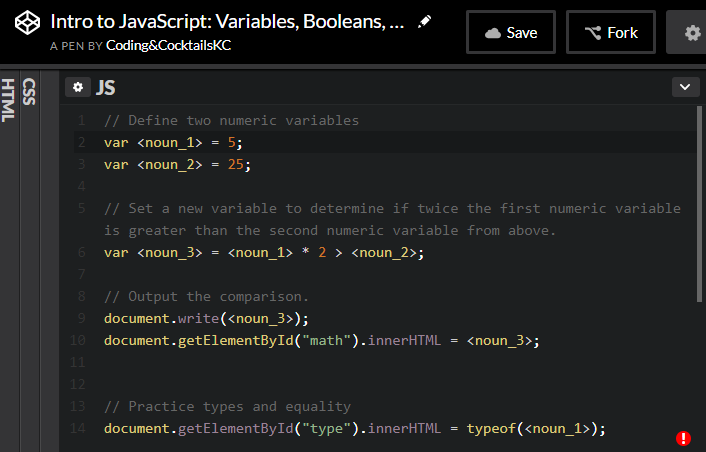
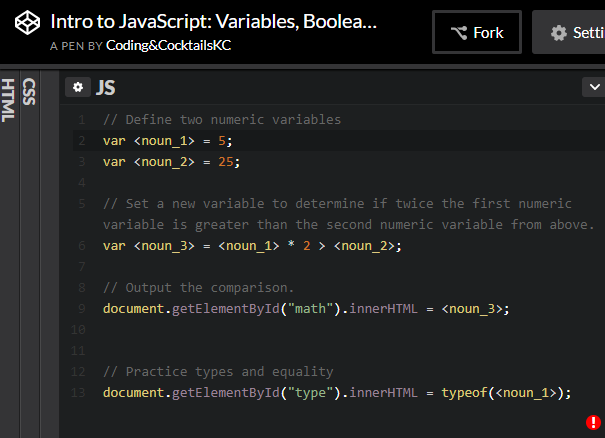
first round feedback changes

diff --git a/docs/ws2-functions/checkpoint.html b/docs/ws2-functions/checkpoint.html
@@ -12,7 +12,7 @@
             </summary>
             <img src="images/checkpoint.png">
             <p>
-             You can also compare your <i>script.js</i> file with our <a href="https://github.com/KansasCityWomeninTechnology/javascript-101/blob/answerkey-functions/scripts.js">answer key</a> if the image is too difficult to read.
+             You can also compare your <i>scripts.js</i> file with our <a href="https://github.com/KansasCityWomeninTechnology/javascript-101/blob/answerkey-functions/scripts.js">answer key</a> if the image is too difficult to read.
             </p>
         </details>
     </div>

diff --git a/docs/ws3-loops/checkpoint.html b/docs/ws3-loops/checkpoint.html
@@ -12,7 +12,7 @@
             </summary>
             <img src="images/checkpoint.png">
             <p>
-             You can also compare your <i>script.js</i> file with our <a href="https://github.com/KansasCityWomeninTechnology/javascript-101/blob/answerkey-arrays/scripts.js">answer key</a> if the image is too difficult to read.
+             You can also compare your <i>scripts.js</i> file with our <a href="https://github.com/KansasCityWomeninTechnology/javascript-101/blob/answerkey-arrays/scripts.js">answer key</a> if the image is too difficult to read.
             </p>
         </details>
     </div>

diff --git a/docs/ws4-events/checkpoint.html b/docs/ws4-events/checkpoint.html
@@ -12,7 +12,7 @@
             </summary>
             <img src="images/checkpoint.png">
             <p>
-             You can also compare your <i>script.js</i> file with our <a href="https://github.com/KansasCityWomeninTechnology/javascript-101/blob/answerkey-events/scripts.js">answer key</a> if the image is too difficult to read.
+             You can also compare your <i>scripts.js</i> file with our <a href="https://github.com/KansasCityWomeninTechnology/javascript-101/blob/answerkey-events/scripts.js">answer key</a> if the image is too difficult to read.
             </p>
         </details>
     </div>

diff --git a/docs/homework/checkpoint.html b/docs/homework/checkpoint.html
@@ -12,7 +12,7 @@
             </summary>
             <img src="images/checkpoint.png">
             <p>
-             You can also compare your <i>script.js</i> file with our <a href="https://github.com/KansasCityWomeninTechnology/javascript-101/blob/answerkey-bonus/scripts.js">answer key</a> if the image is too difficult to read.
+             You can also compare your <i>scripts.js</i> file with our <a href="https://github.com/KansasCityWomeninTechnology/javascript-101/blob/answerkey-bonus/scripts.js">answer key</a> if the image is too difficult to read.
             </p>
         </details>
     </div>

diff --git a/docs/ws2-functions/4conditional.md b/docs/ws2-functions/4conditional.md
@@ -17,7 +17,7 @@ There are 2 different ways to apply this condition.
 Change <code>if (numberOfClicks > 2)</code> to either
 <pre>
 <code class="lang-javascript">
-if (numberOfClicks <= 3)
+if (numberOfClicks &lt;= 3)
 
 if (numberOfClicks < 4)
 </code>
@@ -44,12 +44,12 @@ const clickHandler = function(text) {
 }
    ```
 
-1. Click on the button. Your web page paused execution and DevTools now shows _script.js_. We can now step through the code line by line and inspect the function along the way.
+1. Click on the button. Your web page paused execution and DevTools now shows _scripts.js_. We can now step through the code line by line and inspect the function along the way.
    {% hint style='tip' %}
 `debugger;` works only when debugging capabilities, such as Chrome DevTools is open. 
    {% endhint %}
 
-1. In the _script.js_ tab, hover over `numberOfClicks`. It shows you the current value of the variable, 0. Click **Step** button, ![](images/step.png), to execute the next line of code in _script.js_. The line where we increment `numberOfClicks` highlights. The current value of `numberOfClicks` is still 0.
+1. In the _scripts.js_ tab, hover over `numberOfClicks`. It shows you the current value of the variable, 0. Click **Step** button, ![](images/step.png), to execute the next line of code in _scripts.js_. The line where we increment `numberOfClicks` highlights. The current value of `numberOfClicks` is still 0.
 
    {% hint style='info' %}
 The ![](images/step.png) steps through the source code. You can also Step into and step out of lines of code. Tonight we will use step. 

diff --git a/docs/homework/new-list.md b/docs/homework/new-list.md
@@ -29,7 +29,7 @@ Type <code>const ladyDevs = [];</code>.
    * Sister Mary Kenneth Keller
 
 
-1. Find the declaration for the function `addDevSkill` at the top of _scripts.js_. Between the `addDevSkills` and `request` functions, declare a new function to use for writing the names of the lady devs to the DOM. Your function should look like this:
+1. Find the declaration for the function `addDevSkill` at the top of _scripts.js_. After the `addDevSkill` function closing curly brace, declare a new function to use for writing the names of the lady devs to the DOM. Your function should look like this:
   
    ```javascript
 const addLadyDev = function (ladyDev) {
@@ -60,5 +60,5 @@ Take a look at how you iterated over <code>brainSkills</code> and called the <co
 ## 
 
 ## Checkpoint <span class="navigate-top"><a href="#top" title="Take me to the top of page"><i class="fa fa-chevron-circle-up" aria-hidden="true"></i></a></span>
-Compare your _script.js_ against the answer key for your work. It might look a little different depending on spacing and names of Lady Devs.  
+Compare your _scripts.js_ against the answer key for your work. It might look a little different depending on spacing and names of Lady Devs.  
 {% include "./checkpoint.html" %}

diff --git a/docs/ws2-functions/3debug.md b/docs/ws2-functions/3debug.md
@@ -25,7 +25,7 @@ Change <code>var numberOfClicks = 0;</code> to <code>const numberOfClicks = 0;</
 </details>
    {% endhint %}
 
-1. Try clicking on the button. Oh no! Now we see an error in the console. Notice how DevTools helps you debug your script. It tells you which line of code the failure occurs `script.js:7`. The line number may be different for you.
+1. Try clicking on the button. Oh no! Now we see an error in the console. Notice how DevTools helps you debug your script. It tells you which line of code the failure occurs `scripts.js:7`. The line number may be different for you.
    {% hint style='info' %}
 It also provides information on caller of the failing line-- `HTMLButtonElement.onClick (index:25)`. As you create complex applications, there may be layers of functions called. The layers of functions called is a **call stack**. The output containing the error, along with all the functions called leading up to it, is a **stack trace**.
    {% endhint %}

diff --git a/docs/ws2-functions/1prepare.md b/docs/ws2-functions/1prepare.md
@@ -10,7 +10,7 @@ To open the folder in Atom, follow the instructions below:
    2. Select **File** <i class="fa fa-long-arrow-right"></i> **Open Folder**
    3. Navigate to and select "JavaScriptBasics" folder
 
-   You can close all tabs except for _index.html_ and _script.js_.
+   You can close all tabs except for _index.html_ and _scripts.js_.
   {% endhint %}   
 
 1. We will use the atom-live-server package we installed to serve the _index.html_. This package opens up the web page in your default browser and reload the page whenever you save files. Start the live server by selecting **Packages** <i class="fa fa-long-arrow-right"></i> **atom-live-server**. Select **Start server**. A browser tab will open.

diff --git a/docs/ws1-intro/2types.md b/docs/ws1-intro/2types.md
@@ -5,7 +5,7 @@ The value of a variable is to the right of the '=' sign.
     {% endhint %}
 
     {% hint style='working' %}
-What is the output of "What type is the first variable" when you add quotation marks around the 5? What if you change the variable in `typeof()` on line 14 to use the variable **< noun_3>** from line 6?
+What is the output of "What type is the first variable" when you add quotation marks around the 5? What if you change the variable in `typeof()` on line 13 to use the variable **< noun_3>** from line 6?
     {% endhint %}
 
 1. Remove the `* 2` from line 6 then change the `>` to `==`. Make note of the comparison value in the output.

diff --git a/docs/ws4-events/README.md b/docs/ws4-events/README.md
@@ -16,7 +16,7 @@ We'll add a new click event and set styles on DOM elements.
 ## 
 
 ## Checkpoint <span class="navigate-top"><a href="#top" title="Take me to the top of page"><i class="fa fa-chevron-circle-up" aria-hidden="true"></i></a></span>
-Compare your _script.js_ against the answer key for your work. It might look a little different depending on spacing.  
+Compare your _scripts.js_ against the answer key for your work. It might look a little different depending on spacing.  
 {% include "./checkpoint.html" %}
 
 <!-- trick markdown to give me a little space between these two sections of text -->

diff --git a/docs/ws2-functions/README.md b/docs/ws2-functions/README.md
@@ -38,7 +38,7 @@ Business needs can be complex. We'll add conditional logic to execute different 
 ## 
 
 ## Checkpoint <span class="navigate-top"><a href="#top" title="Take me to the top of page"><i class="fa fa-chevron-circle-up" aria-hidden="true"></i></a></span>
-Compare your _script.js_ against the answer key for your work so far. It might look a little different depending on spacing.  
+Compare your _scripts.js_ against the answer key for your work so far. It might look a little different depending on spacing.  
 {% include "./checkpoint.html" %}
 
 

diff --git a/docs/ws3-loops/1array.md b/docs/ws3-loops/1array.md
@@ -1,6 +1,6 @@
 1. Declare an array called `brainSkills` below the `// Declare brainSkills array below this line` comment by typing `const brainSkills = [];`. 
    {% hint style='info' %}
-This creates an empty array called `brainSkills` that is accessible by anything in _script.js_.
+This creates an empty array called `brainSkills` that is accessible by anything in _scripts.js_.
    {% endhint %}  
 
    {% hint style='danger' %}
